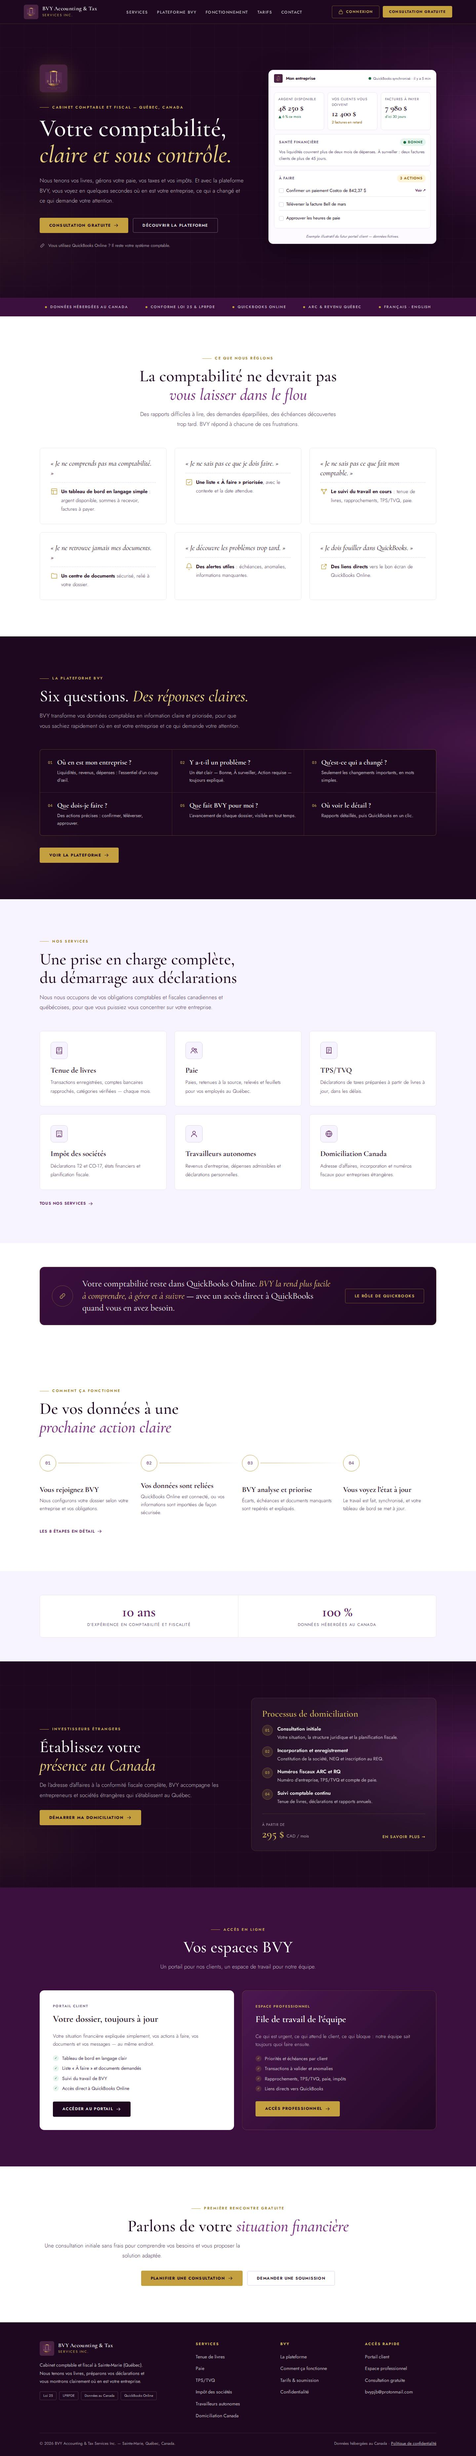
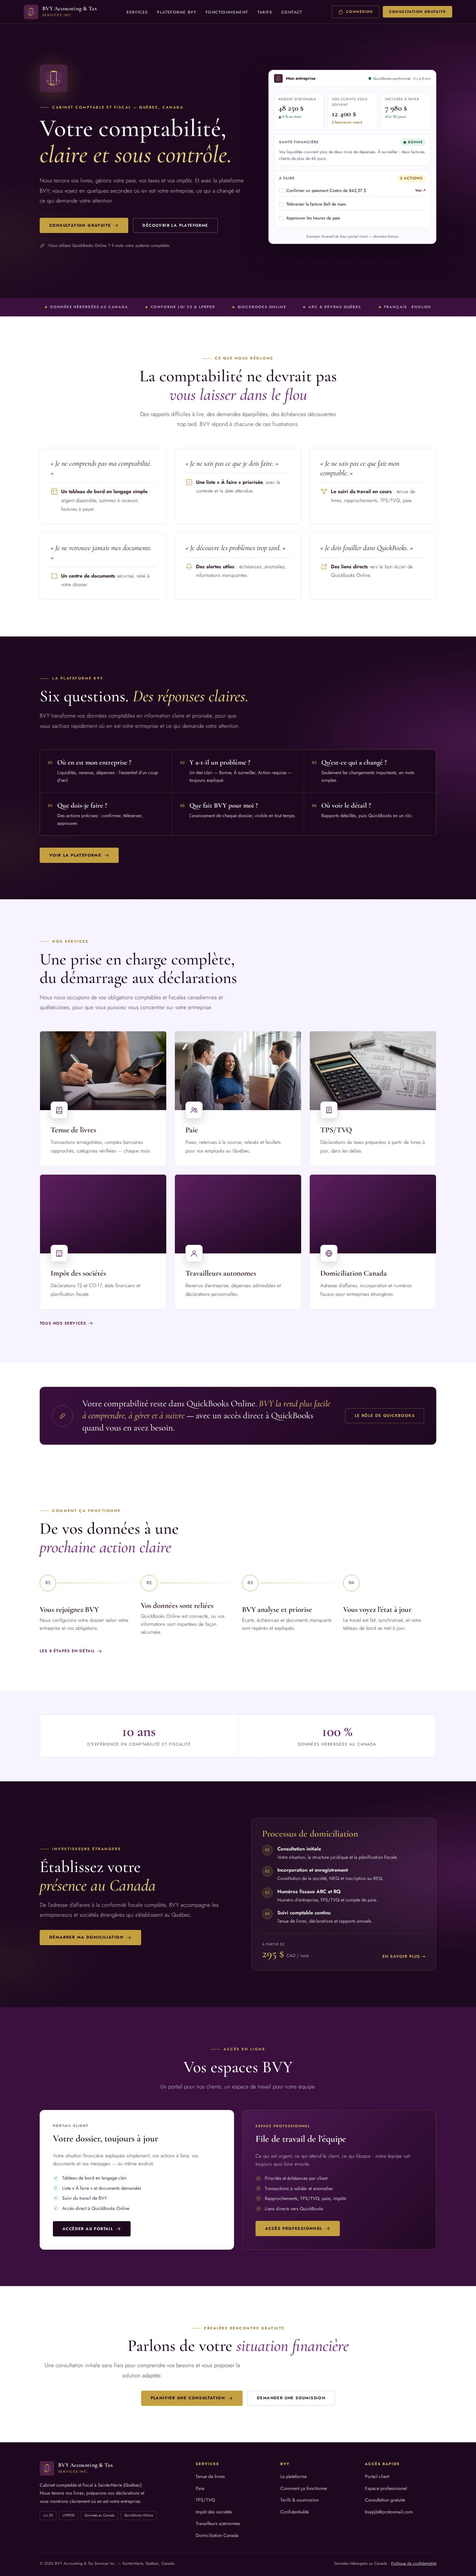
BVY site: Pixabay photos on the 9 service cards
Photos chosen on pixabay.com (Pixabay Content License, commercial use
allowed), 960x600 JPEG, 31-74 KB each; sources and authors in
public/assets/img/services/CREDITS.md. Shown on the services page and
the home page service cards. Screenshots refreshed.

Claude-Session: https://claude.ai/code/session_01TRM3YquBMTjpZKPZenWy7D

diff --git a/bvy-platform/apps/website/src/pages/services.html b/bvy-platform/apps/website/src/pages/services.html
@@ -26,7 +26,7 @@ nav: services
     </div>
     <div class="grid g3 reveal">
       <article class="card lift has-media" id="tenue-de-livres">
-        <figure class="media"><img src="/assets/img/services/tenue-de-livres.jpg" alt="Mains sur une calculatrice et des documents comptables" width="1200" height="750" loading="lazy" decoding="async"></figure>
+        <figure class="media"><img src="/assets/img/services/tenue-de-livres.jpg" alt="Mains sur une calculatrice et des documents comptables" width="960" height="600" loading="lazy" decoding="async"></figure>
         <div class="ico"><svg class="i" aria-hidden="true"><use href="#i-book"/></svg></div>
         <p class="num">01</p>
         <h3 class="h3">Tenue de livres</h3>
@@ -41,7 +41,7 @@ nav: services
         <a class="link-arrow" href="/contact/?service=tenue-de-livres">Demander ce service <svg class="i i-sm" aria-hidden="true"><use href="#i-arrow"/></svg></a>
       </article>
       <article class="card lift has-media" id="paie">
-        <figure class="media"><img src="/assets/img/services/paie.jpg" alt="Équipe au travail, représentant la gestion de la paie" width="1200" height="750" loading="lazy" decoding="async"></figure>
+        <figure class="media"><img src="/assets/img/services/paie.jpg" alt="Collègues souriants dans un bureau lumineux" width="960" height="600" loading="lazy" decoding="async"></figure>
         <div class="ico"><svg class="i" aria-hidden="true"><use href="#i-users"/></svg></div>
         <p class="num">02</p>
         <h3 class="h3">Paie</h3>
@@ -56,7 +56,7 @@ nav: services
         <a class="link-arrow" href="/contact/?service=paie">Demander ce service <svg class="i i-sm" aria-hidden="true"><use href="#i-arrow"/></svg></a>
       </article>
       <article class="card lift has-media" id="tps-tvq">
-        <figure class="media"><img src="/assets/img/services/tps-tvq.jpg" alt="Reçus et calculatrice pour la préparation des taxes" width="1200" height="750" loading="lazy" decoding="async"></figure>
+        <figure class="media"><img src="/assets/img/services/tps-tvq.jpg" alt="Reçus et calculatrice pour la préparation des taxes" width="960" height="600" loading="lazy" decoding="async"></figure>
         <div class="ico"><svg class="i" aria-hidden="true"><use href="#i-receipt"/></svg></div>
         <p class="num">03</p>
         <h3 class="h3">TPS/TVQ</h3>
@@ -71,7 +71,7 @@ nav: services
         <a class="link-arrow" href="/contact/?service=tps-tvq">Demander ce service <svg class="i i-sm" aria-hidden="true"><use href="#i-arrow"/></svg></a>
       </article>
       <article class="card lift has-media" id="impot-societes">
-        <figure class="media"><img src="/assets/img/services/impot-societes.jpg" alt="Révision de documents financiers d’entreprise" width="1200" height="750" loading="lazy" decoding="async"></figure>
+        <figure class="media"><img src="/assets/img/services/impot-societes.jpg" alt="Poignée de main au-dessus de rapports financiers" width="960" height="600" loading="lazy" decoding="async"></figure>
         <div class="ico"><svg class="i" aria-hidden="true"><use href="#i-building"/></svg></div>
         <p class="num">04</p>
         <h3 class="h3">Impôt des sociétés</h3>
@@ -86,7 +86,7 @@ nav: services
         <a class="link-arrow" href="/contact/?service=impot-societes">Demander ce service <svg class="i i-sm" aria-hidden="true"><use href="#i-arrow"/></svg></a>
       </article>
       <article class="card lift has-media" id="travailleurs-autonomes">
-        <figure class="media"><img src="/assets/img/services/travailleurs-autonomes.jpg" alt="Travailleur autonome à son bureau" width="1200" height="750" loading="lazy" decoding="async"></figure>
+        <figure class="media"><img src="/assets/img/services/travailleurs-autonomes.jpg" alt="Travailleur autonome à son bureau" width="960" height="600" loading="lazy" decoding="async"></figure>
         <div class="ico"><svg class="i" aria-hidden="true"><use href="#i-user"/></svg></div>
         <p class="num">05</p>
         <h3 class="h3">Travailleurs autonomes</h3>
@@ -101,7 +101,7 @@ nav: services
         <a class="link-arrow" href="/contact/?service=travailleurs-autonomes">Demander ce service <svg class="i i-sm" aria-hidden="true"><use href="#i-arrow"/></svg></a>
       </article>
       <article class="card lift has-media" id="etats-financiers">
-        <figure class="media"><img src="/assets/img/services/etats-financiers.jpg" alt="Graphiques et états financiers" width="1200" height="750" loading="lazy" decoding="async"></figure>
+        <figure class="media"><img src="/assets/img/services/etats-financiers.jpg" alt="Graphiques et états financiers" width="960" height="600" loading="lazy" decoding="async"></figure>
         <div class="ico"><svg class="i" aria-hidden="true"><use href="#i-chart"/></svg></div>
         <p class="num">06</p>
         <h3 class="h3">Soutien comptable et états financiers</h3>
@@ -116,7 +116,7 @@ nav: services
         <a class="link-arrow" href="/contact/?service=etats-financiers">Demander ce service <svg class="i i-sm" aria-hidden="true"><use href="#i-arrow"/></svg></a>
       </article>
       <article class="card lift has-media" id="incorporation">
-        <figure class="media"><img src="/assets/img/services/incorporation.jpg" alt="Signature de documents de constitution d’entreprise" width="1200" height="750" loading="lazy" decoding="async"></figure>
+        <figure class="media"><img src="/assets/img/services/incorporation.jpg" alt="Signature de documents de constitution d’entreprise" width="960" height="600" loading="lazy" decoding="async"></figure>
         <div class="ico"><svg class="i" aria-hidden="true"><use href="#i-briefcase"/></svg></div>
         <p class="num">07</p>
         <h3 class="h3">Incorporation</h3>
@@ -131,7 +131,7 @@ nav: services
         <a class="link-arrow" href="/contact/?service=incorporation">Demander ce service <svg class="i i-sm" aria-hidden="true"><use href="#i-arrow"/></svg></a>
       </article>
       <article class="card lift has-media" id="domiciliation">
-        <figure class="media"><img src="/assets/img/services/domiciliation.jpg" alt="Paysage urbain du Québec" width="1200" height="750" loading="lazy" decoding="async"></figure>
+        <figure class="media"><img src="/assets/img/services/domiciliation.jpg" alt="Le Vieux-Québec et le Château Frontenac au crépuscule" width="960" height="600" loading="lazy" decoding="async"></figure>
         <div class="ico"><svg class="i" aria-hidden="true"><use href="#i-globe"/></svg></div>
         <p class="num">08</p>
         <h3 class="h3">Domiciliation Canada</h3>
@@ -149,7 +149,7 @@ nav: services
         </div>
       </article>
       <article class="card lift has-media" id="plateforme">
-        <figure class="media"><img src="/assets/img/services/plateforme.jpg" alt="Tableau de bord consulté sur un ordinateur portable" width="1200" height="750" loading="lazy" decoding="async"></figure>
+        <figure class="media"><img src="/assets/img/services/plateforme.jpg" alt="Tableau de bord consulté sur un ordinateur portable" width="960" height="600" loading="lazy" decoding="async"></figure>
         <div class="ico"><svg class="i" aria-hidden="true"><use href="#i-layout"/></svg></div>
         <p class="num">09</p>
         <h3 class="h3">Accès à la plateforme BVY</h3>

diff --git a/bvy-platform/apps/website/public/services/index.html b/bvy-platform/apps/website/public/services/index.html
@@ -114,7 +114,7 @@
     </div>
     <div class="grid g3 reveal">
       <article class="card lift has-media" id="tenue-de-livres">
-        <figure class="media"><img src="/assets/img/services/tenue-de-livres.jpg" alt="Mains sur une calculatrice et des documents comptables" width="1200" height="750" loading="lazy" decoding="async"></figure>
+        <figure class="media"><img src="/assets/img/services/tenue-de-livres.jpg" alt="Mains sur une calculatrice et des documents comptables" width="960" height="600" loading="lazy" decoding="async"></figure>
         <div class="ico"><svg class="i" aria-hidden="true"><use href="#i-book"/></svg></div>
         <p class="num">01</p>
         <h3 class="h3">Tenue de livres</h3>
@@ -129,7 +129,7 @@
         <a class="link-arrow" href="/contact/?service=tenue-de-livres">Demander ce service <svg class="i i-sm" aria-hidden="true"><use href="#i-arrow"/></svg></a>
       </article>
       <article class="card lift has-media" id="paie">
-        <figure class="media"><img src="/assets/img/services/paie.jpg" alt="Équipe au travail, représentant la gestion de la paie" width="1200" height="750" loading="lazy" decoding="async"></figure>
+        <figure class="media"><img src="/assets/img/services/paie.jpg" alt="Collègues souriants dans un bureau lumineux" width="960" height="600" loading="lazy" decoding="async"></figure>
         <div class="ico"><svg class="i" aria-hidden="true"><use href="#i-users"/></svg></div>
         <p class="num">02</p>
         <h3 class="h3">Paie</h3>
@@ -144,7 +144,7 @@
         <a class="link-arrow" href="/contact/?service=paie">Demander ce service <svg class="i i-sm" aria-hidden="true"><use href="#i-arrow"/></svg></a>
       </article>
       <article class="card lift has-media" id="tps-tvq">
-        <figure class="media"><img src="/assets/img/services/tps-tvq.jpg" alt="Reçus et calculatrice pour la préparation des taxes" width="1200" height="750" loading="lazy" decoding="async"></figure>
+        <figure class="media"><img src="/assets/img/services/tps-tvq.jpg" alt="Reçus et calculatrice pour la préparation des taxes" width="960" height="600" loading="lazy" decoding="async"></figure>
         <div class="ico"><svg class="i" aria-hidden="true"><use href="#i-receipt"/></svg></div>
         <p class="num">03</p>
         <h3 class="h3">TPS/TVQ</h3>
@@ -159,7 +159,7 @@
         <a class="link-arrow" href="/contact/?service=tps-tvq">Demander ce service <svg class="i i-sm" aria-hidden="true"><use href="#i-arrow"/></svg></a>
       </article>
       <article class="card lift has-media" id="impot-societes">
-        <figure class="media"><img src="/assets/img/services/impot-societes.jpg" alt="Révision de documents financiers d’entreprise" width="1200" height="750" loading="lazy" decoding="async"></figure>
+        <figure class="media"><img src="/assets/img/services/impot-societes.jpg" alt="Poignée de main au-dessus de rapports financiers" width="960" height="600" loading="lazy" decoding="async"></figure>
         <div class="ico"><svg class="i" aria-hidden="true"><use href="#i-building"/></svg></div>
         <p class="num">04</p>
         <h3 class="h3">Impôt des sociétés</h3>
@@ -174,7 +174,7 @@
         <a class="link-arrow" href="/contact/?service=impot-societes">Demander ce service <svg class="i i-sm" aria-hidden="true"><use href="#i-arrow"/></svg></a>
       </article>
       <article class="card lift has-media" id="travailleurs-autonomes">
-        <figure class="media"><img src="/assets/img/services/travailleurs-autonomes.jpg" alt="Travailleur autonome à son bureau" width="1200" height="750" loading="lazy" decoding="async"></figure>
+        <figure class="media"><img src="/assets/img/services/travailleurs-autonomes.jpg" alt="Travailleur autonome à son bureau" width="960" height="600" loading="lazy" decoding="async"></figure>
         <div class="ico"><svg class="i" aria-hidden="true"><use href="#i-user"/></svg></div>
         <p class="num">05</p>
         <h3 class="h3">Travailleurs autonomes</h3>
@@ -189,7 +189,7 @@
         <a class="link-arrow" href="/contact/?service=travailleurs-autonomes">Demander ce service <svg class="i i-sm" aria-hidden="true"><use href="#i-arrow"/></svg></a>
       </article>
       <article class="card lift has-media" id="etats-financiers">
-        <figure class="media"><img src="/assets/img/services/etats-financiers.jpg" alt="Graphiques et états financiers" width="1200" height="750" loading="lazy" decoding="async"></figure>
+        <figure class="media"><img src="/assets/img/services/etats-financiers.jpg" alt="Graphiques et états financiers" width="960" height="600" loading="lazy" decoding="async"></figure>
         <div class="ico"><svg class="i" aria-hidden="true"><use href="#i-chart"/></svg></div>
         <p class="num">06</p>
         <h3 class="h3">Soutien comptable et états financiers</h3>
@@ -204,7 +204,7 @@
         <a class="link-arrow" href="/contact/?service=etats-financiers">Demander ce service <svg class="i i-sm" aria-hidden="true"><use href="#i-arrow"/></svg></a>
       </article>
       <article class="card lift has-media" id="incorporation">
-        <figure class="media"><img src="/assets/img/services/incorporation.jpg" alt="Signature de documents de constitution d’entreprise" width="1200" height="750" loading="lazy" decoding="async"></figure>
+        <figure class="media"><img src="/assets/img/services/incorporation.jpg" alt="Signature de documents de constitution d’entreprise" width="960" height="600" loading="lazy" decoding="async"></figure>
         <div class="ico"><svg class="i" aria-hidden="true"><use href="#i-briefcase"/></svg></div>
         <p class="num">07</p>
         <h3 class="h3">Incorporation</h3>
@@ -219,7 +219,7 @@
         <a class="link-arrow" href="/contact/?service=incorporation">Demander ce service <svg class="i i-sm" aria-hidden="true"><use href="#i-arrow"/></svg></a>
       </article>
       <article class="card lift has-media" id="domiciliation">
-        <figure class="media"><img src="/assets/img/services/domiciliation.jpg" alt="Paysage urbain du Québec" width="1200" height="750" loading="lazy" decoding="async"></figure>
+        <figure class="media"><img src="/assets/img/services/domiciliation.jpg" alt="Le Vieux-Québec et le Château Frontenac au crépuscule" width="960" height="600" loading="lazy" decoding="async"></figure>
         <div class="ico"><svg class="i" aria-hidden="true"><use href="#i-globe"/></svg></div>
         <p class="num">08</p>
         <h3 class="h3">Domiciliation Canada</h3>
@@ -237,7 +237,7 @@
         </div>
       </article>
       <article class="card lift has-media" id="plateforme">
-        <figure class="media"><img src="/assets/img/services/plateforme.jpg" alt="Tableau de bord consulté sur un ordinateur portable" width="1200" height="750" loading="lazy" decoding="async"></figure>
+        <figure class="media"><img src="/assets/img/services/plateforme.jpg" alt="Tableau de bord consulté sur un ordinateur portable" width="960" height="600" loading="lazy" decoding="async"></figure>
         <div class="ico"><svg class="i" aria-hidden="true"><use href="#i-layout"/></svg></div>
         <p class="num">09</p>
         <h3 class="h3">Accès à la plateforme BVY</h3>

diff --git a/bvy-platform/apps/website/src/pages/index.html b/bvy-platform/apps/website/src/pages/index.html
@@ -108,12 +108,12 @@ nav: accueil
       <p class="lead">Nous nous occupons de vos obligations comptables et fiscales canadiennes et québécoises, pour que vous puissiez vous concentrer sur votre entreprise.</p>
     </div>
     <div class="grid g3 reveal">
-      <a class="card lift has-media" href="/services/#tenue-de-livres" style="text-decoration:none"><figure class="media"><img src="/assets/img/services/tenue-de-livres.jpg" alt="Mains sur une calculatrice et des documents comptables" width="1200" height="750" loading="lazy" decoding="async"></figure><div class="ico"><svg class="i" aria-hidden="true"><use href="#i-book"/></svg></div><h3 class="h3">Tenue de livres</h3><p>Transactions enregistrées, comptes bancaires rapprochés, catégories vérifiées — chaque mois.</p></a>
-      <a class="card lift has-media" href="/services/#paie" style="text-decoration:none"><figure class="media"><img src="/assets/img/services/paie.jpg" alt="Équipe au travail, représentant la gestion de la paie" width="1200" height="750" loading="lazy" decoding="async"></figure><div class="ico"><svg class="i" aria-hidden="true"><use href="#i-users"/></svg></div><h3 class="h3">Paie</h3><p>Paies, retenues à la source, relevés et feuillets pour vos employés au Québec.</p></a>
-      <a class="card lift has-media" href="/services/#tps-tvq" style="text-decoration:none"><figure class="media"><img src="/assets/img/services/tps-tvq.jpg" alt="Reçus et calculatrice pour la préparation des taxes" width="1200" height="750" loading="lazy" decoding="async"></figure><div class="ico"><svg class="i" aria-hidden="true"><use href="#i-receipt"/></svg></div><h3 class="h3">TPS/TVQ</h3><p>Déclarations de taxes préparées à partir de livres à jour, dans les délais.</p></a>
-      <a class="card lift has-media" href="/services/#impot-societes" style="text-decoration:none"><figure class="media"><img src="/assets/img/services/impot-societes.jpg" alt="Révision de documents financiers d’entreprise" width="1200" height="750" loading="lazy" decoding="async"></figure><div class="ico"><svg class="i" aria-hidden="true"><use href="#i-building"/></svg></div><h3 class="h3">Impôt des sociétés</h3><p>Déclarations T2 et CO-17, états financiers et planification fiscale.</p></a>
-      <a class="card lift has-media" href="/services/#travailleurs-autonomes" style="text-decoration:none"><figure class="media"><img src="/assets/img/services/travailleurs-autonomes.jpg" alt="Travailleur autonome à son bureau" width="1200" height="750" loading="lazy" decoding="async"></figure><div class="ico"><svg class="i" aria-hidden="true"><use href="#i-user"/></svg></div><h3 class="h3">Travailleurs autonomes</h3><p>Revenus d’entreprise, dépenses admissibles et déclarations personnelles.</p></a>
-      <a class="card lift has-media" href="/services/#domiciliation" style="text-decoration:none"><figure class="media"><img src="/assets/img/services/domiciliation.jpg" alt="Paysage urbain du Québec" width="1200" height="750" loading="lazy" decoding="async"></figure><div class="ico"><svg class="i" aria-hidden="true"><use href="#i-globe"/></svg></div><h3 class="h3">Domiciliation Canada</h3><p>Adresse d’affaires, incorporation et numéros fiscaux pour entreprises étrangères.</p></a>
+      <a class="card lift has-media" href="/services/#tenue-de-livres" style="text-decoration:none"><figure class="media"><img src="/assets/img/services/tenue-de-livres.jpg" alt="Mains sur une calculatrice et des documents comptables" width="960" height="600" loading="lazy" decoding="async"></figure><div class="ico"><svg class="i" aria-hidden="true"><use href="#i-book"/></svg></div><h3 class="h3">Tenue de livres</h3><p>Transactions enregistrées, comptes bancaires rapprochés, catégories vérifiées — chaque mois.</p></a>
+      <a class="card lift has-media" href="/services/#paie" style="text-decoration:none"><figure class="media"><img src="/assets/img/services/paie.jpg" alt="Collègues souriants dans un bureau lumineux" width="960" height="600" loading="lazy" decoding="async"></figure><div class="ico"><svg class="i" aria-hidden="true"><use href="#i-users"/></svg></div><h3 class="h3">Paie</h3><p>Paies, retenues à la source, relevés et feuillets pour vos employés au Québec.</p></a>
+      <a class="card lift has-media" href="/services/#tps-tvq" style="text-decoration:none"><figure class="media"><img src="/assets/img/services/tps-tvq.jpg" alt="Reçus et calculatrice pour la préparation des taxes" width="960" height="600" loading="lazy" decoding="async"></figure><div class="ico"><svg class="i" aria-hidden="true"><use href="#i-receipt"/></svg></div><h3 class="h3">TPS/TVQ</h3><p>Déclarations de taxes préparées à partir de livres à jour, dans les délais.</p></a>
+      <a class="card lift has-media" href="/services/#impot-societes" style="text-decoration:none"><figure class="media"><img src="/assets/img/services/impot-societes.jpg" alt="Poignée de main au-dessus de rapports financiers" width="960" height="600" loading="lazy" decoding="async"></figure><div class="ico"><svg class="i" aria-hidden="true"><use href="#i-building"/></svg></div><h3 class="h3">Impôt des sociétés</h3><p>Déclarations T2 et CO-17, états financiers et planification fiscale.</p></a>
+      <a class="card lift has-media" href="/services/#travailleurs-autonomes" style="text-decoration:none"><figure class="media"><img src="/assets/img/services/travailleurs-autonomes.jpg" alt="Travailleur autonome à son bureau" width="960" height="600" loading="lazy" decoding="async"></figure><div class="ico"><svg class="i" aria-hidden="true"><use href="#i-user"/></svg></div><h3 class="h3">Travailleurs autonomes</h3><p>Revenus d’entreprise, dépenses admissibles et déclarations personnelles.</p></a>
+      <a class="card lift has-media" href="/services/#domiciliation" style="text-decoration:none"><figure class="media"><img src="/assets/img/services/domiciliation.jpg" alt="Le Vieux-Québec et le Château Frontenac au crépuscule" width="960" height="600" loading="lazy" decoding="async"></figure><div class="ico"><svg class="i" aria-hidden="true"><use href="#i-globe"/></svg></div><h3 class="h3">Domiciliation Canada</h3><p>Adresse d’affaires, incorporation et numéros fiscaux pour entreprises étrangères.</p></a>
     </div>
     <div class="actions reveal" style="margin-top:32px"><a class="link-arrow" href="/services/">Tous nos services <svg class="i i-sm" aria-hidden="true"><use href="#i-arrow"/></svg></a></div>
   </div>

diff --git a/bvy-platform/apps/website/public/index.html b/bvy-platform/apps/website/public/index.html
@@ -196,12 +196,12 @@
       <p class="lead">Nous nous occupons de vos obligations comptables et fiscales canadiennes et québécoises, pour que vous puissiez vous concentrer sur votre entreprise.</p>
     </div>
     <div class="grid g3 reveal">
-      <a class="card lift has-media" href="/services/#tenue-de-livres" style="text-decoration:none"><figure class="media"><img src="/assets/img/services/tenue-de-livres.jpg" alt="Mains sur une calculatrice et des documents comptables" width="1200" height="750" loading="lazy" decoding="async"></figure><div class="ico"><svg class="i" aria-hidden="true"><use href="#i-book"/></svg></div><h3 class="h3">Tenue de livres</h3><p>Transactions enregistrées, comptes bancaires rapprochés, catégories vérifiées — chaque mois.</p></a>
-      <a class="card lift has-media" href="/services/#paie" style="text-decoration:none"><figure class="media"><img src="/assets/img/services/paie.jpg" alt="Équipe au travail, représentant la gestion de la paie" width="1200" height="750" loading="lazy" decoding="async"></figure><div class="ico"><svg class="i" aria-hidden="true"><use href="#i-users"/></svg></div><h3 class="h3">Paie</h3><p>Paies, retenues à la source, relevés et feuillets pour vos employés au Québec.</p></a>
-      <a class="card lift has-media" href="/services/#tps-tvq" style="text-decoration:none"><figure class="media"><img src="/assets/img/services/tps-tvq.jpg" alt="Reçus et calculatrice pour la préparation des taxes" width="1200" height="750" loading="lazy" decoding="async"></figure><div class="ico"><svg class="i" aria-hidden="true"><use href="#i-receipt"/></svg></div><h3 class="h3">TPS/TVQ</h3><p>Déclarations de taxes préparées à partir de livres à jour, dans les délais.</p></a>
-      <a class="card lift has-media" href="/services/#impot-societes" style="text-decoration:none"><figure class="media"><img src="/assets/img/services/impot-societes.jpg" alt="Révision de documents financiers d’entreprise" width="1200" height="750" loading="lazy" decoding="async"></figure><div class="ico"><svg class="i" aria-hidden="true"><use href="#i-building"/></svg></div><h3 class="h3">Impôt des sociétés</h3><p>Déclarations T2 et CO-17, états financiers et planification fiscale.</p></a>
-      <a class="card lift has-media" href="/services/#travailleurs-autonomes" style="text-decoration:none"><figure class="media"><img src="/assets/img/services/travailleurs-autonomes.jpg" alt="Travailleur autonome à son bureau" width="1200" height="750" loading="lazy" decoding="async"></figure><div class="ico"><svg class="i" aria-hidden="true"><use href="#i-user"/></svg></div><h3 class="h3">Travailleurs autonomes</h3><p>Revenus d’entreprise, dépenses admissibles et déclarations personnelles.</p></a>
-      <a class="card lift has-media" href="/services/#domiciliation" style="text-decoration:none"><figure class="media"><img src="/assets/img/services/domiciliation.jpg" alt="Paysage urbain du Québec" width="1200" height="750" loading="lazy" decoding="async"></figure><div class="ico"><svg class="i" aria-hidden="true"><use href="#i-globe"/></svg></div><h3 class="h3">Domiciliation Canada</h3><p>Adresse d’affaires, incorporation et numéros fiscaux pour entreprises étrangères.</p></a>
+      <a class="card lift has-media" href="/services/#tenue-de-livres" style="text-decoration:none"><figure class="media"><img src="/assets/img/services/tenue-de-livres.jpg" alt="Mains sur une calculatrice et des documents comptables" width="960" height="600" loading="lazy" decoding="async"></figure><div class="ico"><svg class="i" aria-hidden="true"><use href="#i-book"/></svg></div><h3 class="h3">Tenue de livres</h3><p>Transactions enregistrées, comptes bancaires rapprochés, catégories vérifiées — chaque mois.</p></a>
+      <a class="card lift has-media" href="/services/#paie" style="text-decoration:none"><figure class="media"><img src="/assets/img/services/paie.jpg" alt="Collègues souriants dans un bureau lumineux" width="960" height="600" loading="lazy" decoding="async"></figure><div class="ico"><svg class="i" aria-hidden="true"><use href="#i-users"/></svg></div><h3 class="h3">Paie</h3><p>Paies, retenues à la source, relevés et feuillets pour vos employés au Québec.</p></a>
+      <a class="card lift has-media" href="/services/#tps-tvq" style="text-decoration:none"><figure class="media"><img src="/assets/img/services/tps-tvq.jpg" alt="Reçus et calculatrice pour la préparation des taxes" width="960" height="600" loading="lazy" decoding="async"></figure><div class="ico"><svg class="i" aria-hidden="true"><use href="#i-receipt"/></svg></div><h3 class="h3">TPS/TVQ</h3><p>Déclarations de taxes préparées à partir de livres à jour, dans les délais.</p></a>
+      <a class="card lift has-media" href="/services/#impot-societes" style="text-decoration:none"><figure class="media"><img src="/assets/img/services/impot-societes.jpg" alt="Poignée de main au-dessus de rapports financiers" width="960" height="600" loading="lazy" decoding="async"></figure><div class="ico"><svg class="i" aria-hidden="true"><use href="#i-building"/></svg></div><h3 class="h3">Impôt des sociétés</h3><p>Déclarations T2 et CO-17, états financiers et planification fiscale.</p></a>
+      <a class="card lift has-media" href="/services/#travailleurs-autonomes" style="text-decoration:none"><figure class="media"><img src="/assets/img/services/travailleurs-autonomes.jpg" alt="Travailleur autonome à son bureau" width="960" height="600" loading="lazy" decoding="async"></figure><div class="ico"><svg class="i" aria-hidden="true"><use href="#i-user"/></svg></div><h3 class="h3">Travailleurs autonomes</h3><p>Revenus d’entreprise, dépenses admissibles et déclarations personnelles.</p></a>
+      <a class="card lift has-media" href="/services/#domiciliation" style="text-decoration:none"><figure class="media"><img src="/assets/img/services/domiciliation.jpg" alt="Le Vieux-Québec et le Château Frontenac au crépuscule" width="960" height="600" loading="lazy" decoding="async"></figure><div class="ico"><svg class="i" aria-hidden="true"><use href="#i-globe"/></svg></div><h3 class="h3">Domiciliation Canada</h3><p>Adresse d’affaires, incorporation et numéros fiscaux pour entreprises étrangères.</p></a>
     </div>
     <div class="actions reveal" style="margin-top:32px"><a class="link-arrow" href="/services/">Tous nos services <svg class="i i-sm" aria-hidden="true"><use href="#i-arrow"/></svg></a></div>
   </div>

diff --git a/bvy-platform/apps/website/public/assets/img/services/CREDITS.md b/bvy-platform/apps/website/public/assets/img/services/CREDITS.md
@@ -1,0 +1,15 @@
+# Crédits photos — cartes de services
+
+| Fichier | Photo Pixabay (page) | Auteur si visible | Licence |
+|---|---|---|---|
+| `tenue-de-livres.jpg` | https://pixabay.com/fr/photos/femme-%C3%A9criture-calculatrice-carnet-10182411/ | NatphiMedia | Licence de contenu Pixabay — usage commercial autorisé, sans attribution obligatoire |
+| `paie.jpg` | https://pixabay.com/fr/photos/r%C3%A9union-daffaires-collaboration-10476308/ | erwinbosman | Licence de contenu Pixabay — usage commercial autorisé, sans attribution obligatoire |
+| `tps-tvq.jpg` | https://pixabay.com/fr/photos/calculatrice-calcul-assurance-385506/ | stevepb | Licence de contenu Pixabay — usage commercial autorisé, sans attribution obligatoire |
+| `impot-societes.jpg` | https://pixabay.com/fr/photos/rencontre-entreprise-bureau-%C3%A9quipe-9498211/ | Eren098566 | Licence de contenu Pixabay — usage commercial autorisé, sans attribution obligatoire |
+| `travailleurs-autonomes.jpg` | https://pixabay.com/fr/photos/femme-bureau-t%C3%A9l%C3%A9travail-budget-10479942/ | erwinbosman | Licence de contenu Pixabay — usage commercial autorisé, sans attribution obligatoire |
+| `etats-financiers.jpg` | https://pixabay.com/fr/photos/financier-analytique-se-brouiller-2860753/ | Non affiché | Licence de contenu Pixabay — usage commercial autorisé, sans attribution obligatoire |
+| `incorporation.jpg` | https://pixabay.com/fr/photos/lhomme-inscrivez-vous-papier-5710164/ | Maximilianovich | Licence de contenu Pixabay — usage commercial autorisé, sans attribution obligatoire |
+| `domiciliation.jpg` | https://pixabay.com/fr/photos/quebec-panorama-nuit-coucher-2473837/ | Aurusdorus | Licence de contenu Pixabay — usage commercial autorisé, sans attribution obligatoire |
+| `plateforme.jpg` | https://pixabay.com/fr/photos/ordinateur-statistiques-circulation-5837248/ | Tumisu | Licence de contenu Pixabay — usage commercial autorisé, sans attribution obligatoire |
+
+Images capturées depuis la page Pixabay de chaque photo, recadrées en 16:10 et enregistrées en JPEG 960×600 (qualité 80) pour le site ; la page Pixabay affiche les photos à environ 1056 px de large au maximum, d'où le choix de 960×600 plutôt que 1200×750.

diff --git a/bvy-platform/review/REVIEW.md b/bvy-platform/review/REVIEW.md
@@ -69,7 +69,7 @@ Contrôle automatique : aucune erreur HTTP, aucun défilement horizontal, aucune
 5. **Tableau de bord** : c'est une maquette avec des données fictives (indiqué sur la page) ; le vrai portail est la phase 3.
 6. **Formulaire** : les demandes sont enregistrées dans `/var/www/bvy-website/shared/data/leads.jsonl`. Pour les recevoir par courriel, brancher `LEADS_WEBHOOK_URL` sur un flux n8n (voir `DEPLOIEMENT.md`, étape 9).
 7. **Polices Google** : chargées depuis les serveurs de Google (mentionné dans la politique). On peut les héberger localement si vous préférez.
-8. **Images** : les photos de services du site actuel n'ont pas pu être récupérées ; le design utilise des icônes. Vous pouvez m'envoyer des photos à intégrer.
+8. ~~Images~~ — **réglé** : 9 photos Pixabay (licence Pixabay, usage commercial permis) sur les cartes services ; sources dans `apps/website/public/assets/img/services/CREDITS.md`.
 
 ## 8. Prochaine étape proposée
 
